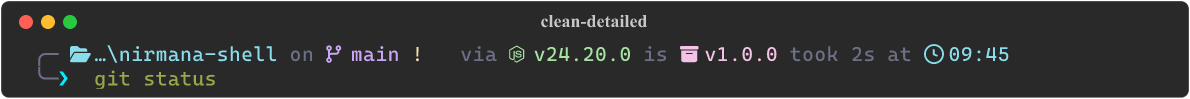
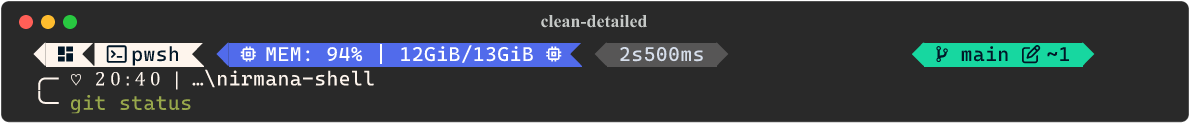
feat(transpiler): add block alignment and system modules support for clean-detailed

diff --git a/scripts/convert-omp.py b/scripts/convert-omp.py
@@ -86,7 +86,6 @@ RUNTIME_MAPPINGS = {
     "deno": ("deno", "$deno", " ", "#7FD5EA"),
     "dart": ("dart", "$dart", " ", "#7FD5EA"),
     "julia": ("julia", "$julia", " ", "#945BB3"),
-    "shell": ("shell", "$shell", " ", "#D6DEEB"),
     "package": ("package", "$package", " ", "#AEA4BF"),
     "c": ("c", "$c", " ", "#00599C"),
     "cpp": ("cpp", "$cpp", " ", "#00599C"),
@@ -349,9 +348,9 @@ class OmpTranspiler:
             stype = s.get("type")
             tmpl = s.get("template", "")
             fg, bg = self.get_seg_colors(s)
-            if stype == "text" and any(c in tmpl for c in ("\u2570", "╰")):
-                col = fg or bg or "#21c7a8"
-                connector_span = f"[{tmpl}](bold {col})"
+            if stype in ("text", "status") and any(c in tmpl for c in ("\u2570", "╰")):
+                col = fg or bg or "#FEF5ED"
+                connector_span = f"[{tmpl.strip()}](fg:{col})"
                 last_left.remove(s)
                 break
 
@@ -413,28 +412,37 @@ class OmpTranspiler:
                 last_left.remove(s)
                 break
 
-        self.modules["character"] = line_character or {
-            "success_symbol": "[❯ ](bold #22da6e) ",
-            "error_symbol": "[❯ ](bold #ef5350) ",
-        }
+        if not line_character:
+            if connector_span:
+                line_character = {
+                    "format": f"{connector_span} $symbol",
+                    "success_symbol": "",
+                    "error_symbol": "[x ](bold #ef5350)",
+                }
+            else:
+                line_character = {
+                    "success_symbol": "[❯ ](bold #22da6e) ",
+                    "error_symbol": "[❯ ](bold #ef5350) ",
+                }
+        self.modules["character"] = line_character
 
         # Step 4: Process Line 1
         line1_left = prompt_lines[0]["left"]
         line1_right = prompt_lines[0]["right"]
 
-        # Relocate metrics and runtimes from left to right on Line 1
-        relocated = []
-        remaining_l1 = []
-        for s in line1_left:
-            stype = s.get("type", "")
-            if stype in ("executiontime", "sysinfo", "memory", "battery", "time") or stype in RUNTIME_MAPPINGS:
-                if not (is_single_line and theme_style == "powerline"):
+        # Relocate metrics and runtimes from left to right on Line 1 ONLY if right side is initially empty
+        if not line1_right and not (is_single_line and theme_style == "powerline"):
+            relocated = []
+            remaining_l1 = []
+            for s in line1_left:
+                stype = s.get("type", "")
+                if stype in ("executiontime", "sysinfo", "memory", "battery", "time") or stype in RUNTIME_MAPPINGS:
                     relocated.append(s)
                     continue
-            remaining_l1.append(s)
-        prompt_lines[0]["left"] = remaining_l1
-        if relocated:
-            line1_right[:0] = relocated
+                remaining_l1.append(s)
+            prompt_lines[0]["left"] = remaining_l1
+            if relocated:
+                line1_right[:0] = relocated
 
         # Check if runtimes should be injected
         has_orig_runtimes = any(s.get("type") in RUNTIME_MAPPINGS for s in all_segs)
@@ -571,6 +579,8 @@ class OmpTranspiler:
                 line1_right_mods.append(m["var_name"])
                 if m["mod_name"] == "username" and m.get("has_host") and "$hostname" not in line1_right_mods:
                     line1_right_mods.append("$hostname")
+                if m["mod_name"] == "git_branch" and "$git_status" not in line1_right_mods:
+                    line1_right_mods.append("$git_status")
 
         # Step 5: Process Subsequent Lines (Line 2+)
         subsequent_line_mods: List[List[str]] = []
@@ -579,7 +589,8 @@ class OmpTranspiler:
             for s in pl["left"]:
                 mod = self.parse_segment(s)
                 if mod:
-                    self.build_left_module(mod, theme_style)
+                    if mod.get("mod_name") != "connector":
+                        self.build_left_module(mod, theme_style)
                     if mod["var_name"] not in curr_sub_mods:
                         curr_sub_mods.append(mod["var_name"])
                         if mod["mod_name"] == "git_branch" and "$git_status" not in curr_sub_mods:
@@ -685,7 +696,7 @@ class OmpTranspiler:
                 icon = " " if "\ue5ff" in tmpl else " "
             return {
                 "mod_name": "directory", "var_name": "$directory",
-                "fg": fg or "#82AAFF", "bg": bg,
+                "fg": fg or ("#FEF5ED" if self.has_top_connector else "#82AAFF"), "bg": bg,
                 "leading": lead, "trailing": trail,
                 "icon": icon, "raw_tmpl": "$path",
                 "options": options,
@@ -747,12 +758,35 @@ class OmpTranspiler:
                 "options": options,
                 "template": tmpl,
             }
+        elif stype == "shell":
+            return {
+                "mod_name": "shell", "var_name": "$shell",
+                "fg": fg or "#011627", "bg": bg or "#FEF5ED",
+                "leading": lead, "trailing": trail,
+                "icon": " ", "raw_tmpl": "$indicator",
+                "options": options,
+                "template": tmpl,
+            }
+        elif stype == "text":
+            if any(c in tmpl for c in ("\u256d", "╭")):
+                col = fg or "#FEF5ED"
+                return {
+                    "mod_name": "connector", "var_name": f"[{tmpl.strip()}](fg:{col}) ",
+                    "fg": col, "bg": None,
+                    "leading": lead, "trailing": trail,
+                    "icon": "", "raw_tmpl": tmpl,
+                    "options": options,
+                    "template": tmpl,
+                }
+            return None
         elif stype == "time":
             has_icon = any(x in tmpl for x in ("\uf017", "\ue383", ".Icon"))
             icon = " " if has_icon else ""
+            if "\u2665" in tmpl or "♥" in tmpl:
+                icon = "♡ "
             return {
                 "mod_name": "time", "var_name": "$time",
-                "fg": fg or "#82AAFF", "bg": bg,
+                "fg": fg or ("#FEF5ED" if self.has_top_connector else "#82AAFF"), "bg": bg,
                 "leading": lead, "trailing": trail,
                 "icon": icon, "raw_tmpl": "$time",
                 "options": options,
@@ -802,8 +836,9 @@ class OmpTranspiler:
             extra_span = parse_omp_markup(curr.get("extra_text"), fg)
 
             if mod_name == "directory":
+                fg_col = fg or "#FEF5ED"
                 self.modules["directory"] = {
-                    "format": f"{lead_span}[ {icon}$path ](bold {fg}){trail_span} ",
+                    "format": f"{lead_span}[{icon}$path ](fg:{fg_col}){trail_span} ",
                     "truncation_length": 3,
                     "truncation_symbol": "…/",
                 }
@@ -837,8 +872,11 @@ class OmpTranspiler:
                     }
             elif mod_name == "time":
                 raw_t = curr.get("options", {}).get("time_format", "15:04:05")
+                suffix = " |" if "|" in curr.get("template", "") else ""
+                icon_str = f"{icon}" if icon else ""
+                fg_col = fg or "#FEF5ED"
                 self.modules["time"] = {
-                    "format": f"[ {icon}$time ](bold {fg}) ",
+                    "format": f"[{icon_str}$time{suffix}](fg:{fg_col}) ",
                     "disabled": False,
                     "time_format": convert_go_date_format(raw_t),
                 }
@@ -861,9 +899,11 @@ class OmpTranspiler:
                     "Linux": "",
                 }
             elif mod_name == "sudo":
+                fg_col = fg or "#FEF5ED"
                 self.modules["sudo"] = {
-                    "style": f"bold {fg}",
-                    "format": f"[# ](fg:{fg}) " if "#" in curr.get("template", "") else f"[ {icon}]($style) ",
+                    "style": f"bold {fg_col}",
+                    "format": f"[# ](fg:{fg_col}) " if ("#" in curr.get("template", "") or "\uf292" in curr.get("template", "")) else f"[ {icon}]($style) ",
+                    "allow_windows": True,
                     "disabled": False,
                 }
             elif mod_name == "status":
@@ -958,16 +998,56 @@ class OmpTranspiler:
 
             if mod_name == "os":
                 lead_str = f"[{curr['leading']}](fg:{bg})" if curr.get("leading") else ""
+                trail_str = ""
+                if curr.get("trailing"):
+                    if "<transparent" in curr["trailing"]:
+                        trail_str = f"[](fg:#292929 bg:{bg})"
+                    else:
+                        trail_str = f"[{curr['trailing']}](fg:{bg}) "
                 self.modules["os"] = {
                     "disabled": False,
                     "style": f"fg:{fg} bg:{bg}",
-                    "format": f"{lead_str}[ $symbol ]($style)",
+                    "format": f"{lead_str}[ $symbol ]($style){trail_str}",
                 }
                 self.modules["os.symbols"] = {
-                    "Windows": "",
+                    "Windows": "",
                     "Ubuntu": "",
                     "Macos": "",
                     "Linux": "",
+                }
+            elif mod_name == "shell":
+                idx = l1_mods.index(curr) if curr in l1_mods else -1
+                prev_mod = l1_mods[idx - 1] if idx > 0 else None
+                same_bg_as_prev = bool(prev_mod and prev_mod.get("bg") == bg)
+                lead_str = "" if same_bg_as_prev else (f"[{curr['leading']}](fg:{bg})" if curr.get("leading") else "")
+                trail_str = ""
+                if curr.get("trailing"):
+                    if "<transparent" in curr["trailing"]:
+                        trail_str = f"[](fg:#292929 bg:{bg}) "
+                    else:
+                        trail_str = f"[{curr['trailing']}](fg:{bg}) "
+                self.modules["shell"] = {
+                    "disabled": False,
+                    "powershell_indicator": "pwsh",
+                    "bash_indicator": "bash",
+                    "zsh_indicator": "zsh",
+                    "style": f"fg:{fg} bg:{bg}",
+                    "format": f"{lead_str}[  $indicator ]($style){trail_str}",
+                }
+            elif mod_name == "memory_usage":
+                lead_str = f"[{curr['leading']}](fg:{bg})" if curr.get("leading") else ""
+                trail_str = ""
+                if curr.get("trailing"):
+                    if "<transparent" in curr["trailing"]:
+                        trail_str = f"[](fg:#292929 bg:{bg}) "
+                    else:
+                        trail_str = f"[{curr['trailing']}](fg:{bg}) "
+                self.modules["memory_usage"] = {
+                    "disabled": False,
+                    "threshold": -1,
+                    "style": f"fg:{fg} bg:{bg}",
+                    "symbol": "",
+                    "format": f"{lead_str}[ $symbol MEM: $ram_pct | $ram $symbol ]($style){trail_str}",
                 }
             elif mod_name == "sudo":
                 if bg:
@@ -1068,9 +1148,13 @@ class OmpTranspiler:
                 }
             elif mod_name == "cmd_duration":
                 thresh = curr.get("options", {}).get("threshold", 0)
+                lead_str = f"[{curr['leading']}](fg:{bg})" if curr.get("leading") else lead_chevron
+                trail_str = f"[{curr['trailing']}](fg:{bg}) " if curr.get("trailing") else ""
+                icon_str = f"{icon}" if icon else ""
                 self.modules["cmd_duration"] = {
-                    "format": f"{lead_chevron}[ {icon}$duration ](fg:{fg} bg:{bg})",
-                    "min_time": thresh or 2000,
+                    "format": f"{lead_str}[ {icon_str}$duration ](fg:{fg} bg:{bg}){trail_str}",
+                    "min_time": thresh,
+                    "show_milliseconds": True,
                 }
             else:
                 raw_t = curr.get("raw_tmpl", "")
@@ -1170,7 +1254,29 @@ class OmpTranspiler:
                     "format": "[/ $hostname ]($style) ",
                     "ssh_only": False,
                 }
+            if mod_name == "git_branch":
+                trail_glyph = curr.get("trailing", "") or "\ue0b0"
+                trail_str = f"[{trail_glyph}](fg:{effective_bg}) "
+                lead_glyph = curr.get("leading", "") or "\ue0b2"
+                lead_str = f"[{lead_glyph}](fg:{effective_bg})"
+                b_sym = icon or " "
+                self.modules["git_branch"] = {
+                    "style": f"fg:{fg} bg:{effective_bg}",
+                    "symbol": b_sym,
+                    "format": f"{lead_str}[ {b_sym}$branch]($style)",
+                }
+                self.modules["git_status"] = {
+                    "style": f"fg:{fg} bg:{effective_bg}",
+                    "format": f"([ $ahead_behind$all_status]($style)){trail_str}",
+                    "ahead": "↑${count} ",
+                    "behind": "↓${count} ",
+                    "modified": " ~${count} ",
+                    "staged": " +${count} ",
+                    "stashed": " ${count} ",
+                    "untracked": " ${count} ",
+                }
                 return
+
             # In powerline style, intermediate modules must not have trailing diamonds to prevent breaking the ribbon.
             trail_glyph = curr.get("trailing", "") if mod_name == "time" else ""
             trail_str = f"[{trail_glyph}](fg:{effective_bg})" if trail_glyph else ""
